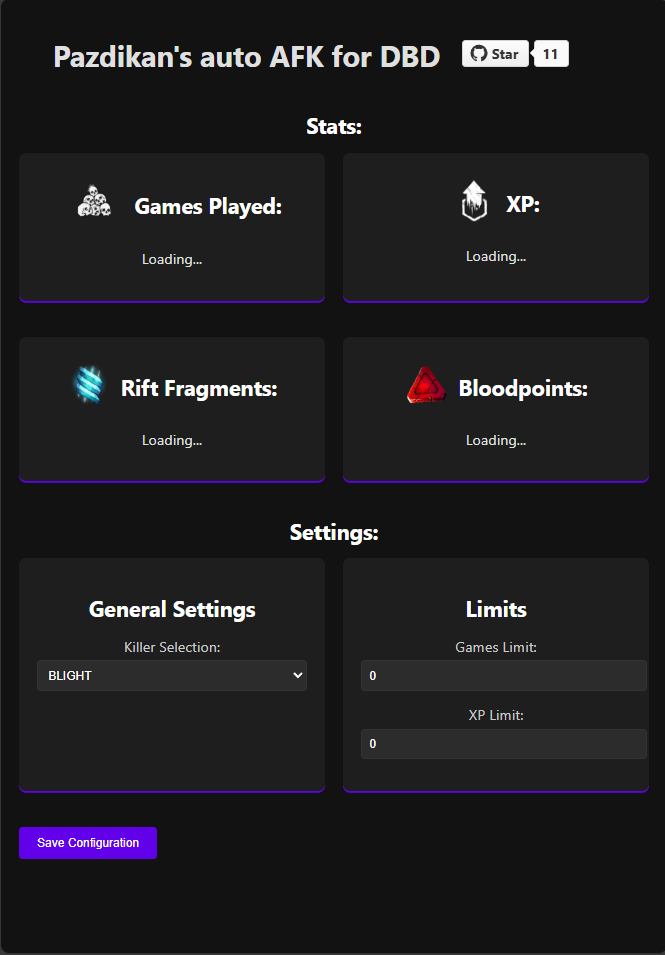
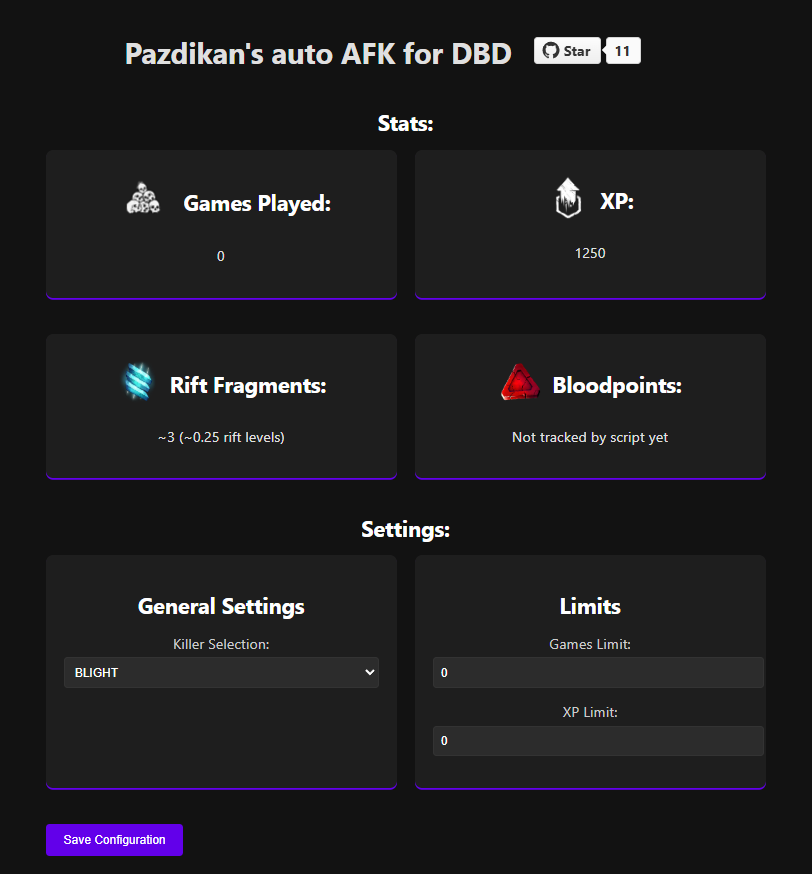
Update game statistics and enhance web panel integration

diff --git a/src/webserver/panel.html b/src/webserver/panel.html
@@ -78,7 +78,7 @@
                     <h2>Games Played:</h2>
                 </div>
 
-                <p id="rift_frag">Loading...</p>
+                <p id="stat_games_played">Loading...</p>
             </div>
             <div class="config-section">
                 <div style="display: flex; align-items: center; justify-content: center;">
@@ -86,7 +86,7 @@
                     <h2>XP:</h2>
                 </div>
 
-                <p id="rift_frag">Loading...</p>
+                <p id="stat_xp">Loading...</p>
             </div>
             <div class="config-section">
                 <div style="display: flex; align-items: center; justify-content: center;">
@@ -94,7 +94,7 @@
                     <h2>Rift Fragments:</h2>
                 </div>
 
-                <p id="rift_frag">Loading...</p>
+                <p id="stat_rift_frag">Loading...</p>
             </div>
             <div class="config-section">
                 <div style="display: flex; align-items: center; justify-content: center;">
@@ -102,7 +102,7 @@
                     <h2>Bloodpoints:</h2>
                 </div>
 
-                <p id="rift_frag">Loading...</p>
+                <p id="stat_bloodpoints">Loading...</p>
             </div>
         </div>
 
@@ -144,6 +144,19 @@
                     option.textContent = killer;
                     killerSelect.appendChild(option);
                 });
+            })
+            .catch(() => {
+                const killerSelect = document.getElementById('killer');
+                killerSelect.innerHTML = '<option value="">Failed to load killers</option>';
+            });
+
+            fetch('/api/stats')
+            .then(response => response.json())
+            .then(stats => {
+                document.getElementById('stat_games_played').textContent = stats.games;
+                document.getElementById('stat_xp').textContent = stats.xp;
+                document.getElementById('stat_rift_frag').textContent = `~${parseFloat(stats.xp / 500).toFixed(0)} (~${parseFloat(stats.xp / 5000).toFixed(2)} rift levels)`;
+                document.getElementById('stat_bloodpoints').textContent = "Not tracked by script yet";
             })
             .catch(() => {
                 const killerSelect = document.getElementById('killer');

diff --git a/src/webserver/api.py b/src/webserver/api.py
@@ -1,28 +1,16 @@
 from flask import jsonify, request
 
 import data
-
-
-logs = [
-    "Log entry 1",
-    "Log entry 2",
-    "Log entry 3"
-]
-
-stats = [
-    "Game Started",
-    "Player 1: 100 points",
-    "Player 2: 150 points"
-]
+import overlay
 
 def init(app):
     @app.route('/api/logs', methods=['GET'])
     def get_logs():
-        return jsonify(logs)
+        return jsonify(overlay.overlay.logs)
 
     @app.route('/api/stats', methods=['GET'])
     def get_stats():
-        return jsonify(stats)
+        return jsonify({"games": data.games, "xp": data.xp, "time_in_game": data.total_time_in_game})
 
     @app.route('/api/settings', methods=['POST'])
     def update_settings():

diff --git a/src/data.py b/src/data.py
@@ -25,7 +25,7 @@ if debug:
     current_state = State.INGAME
 
 games = 0
-xp = 0
+xp = 1250
 total_time_in_game = 0
 
 script_start_time = time()
